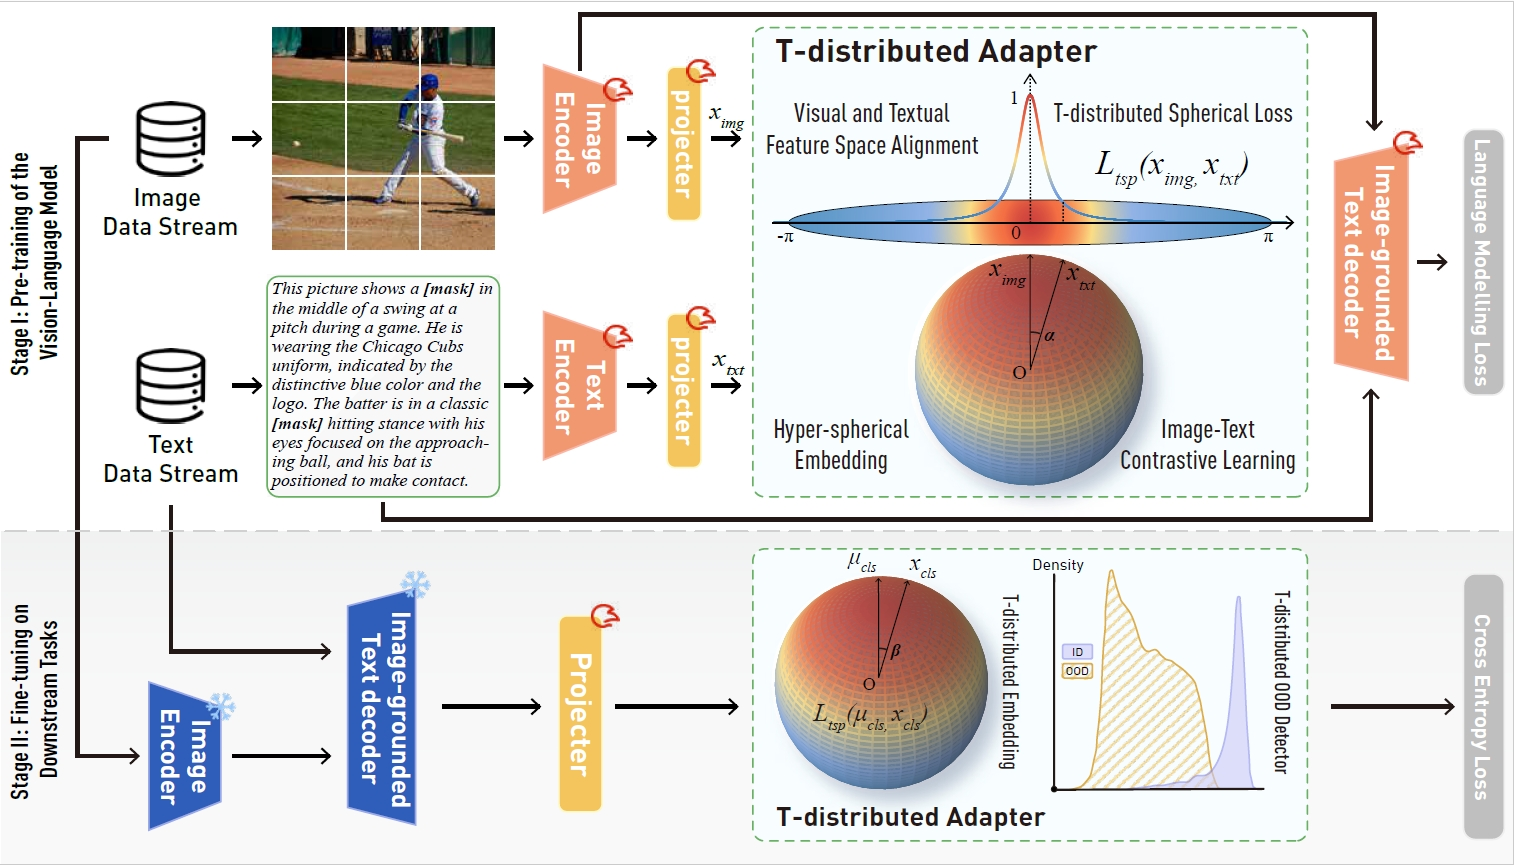
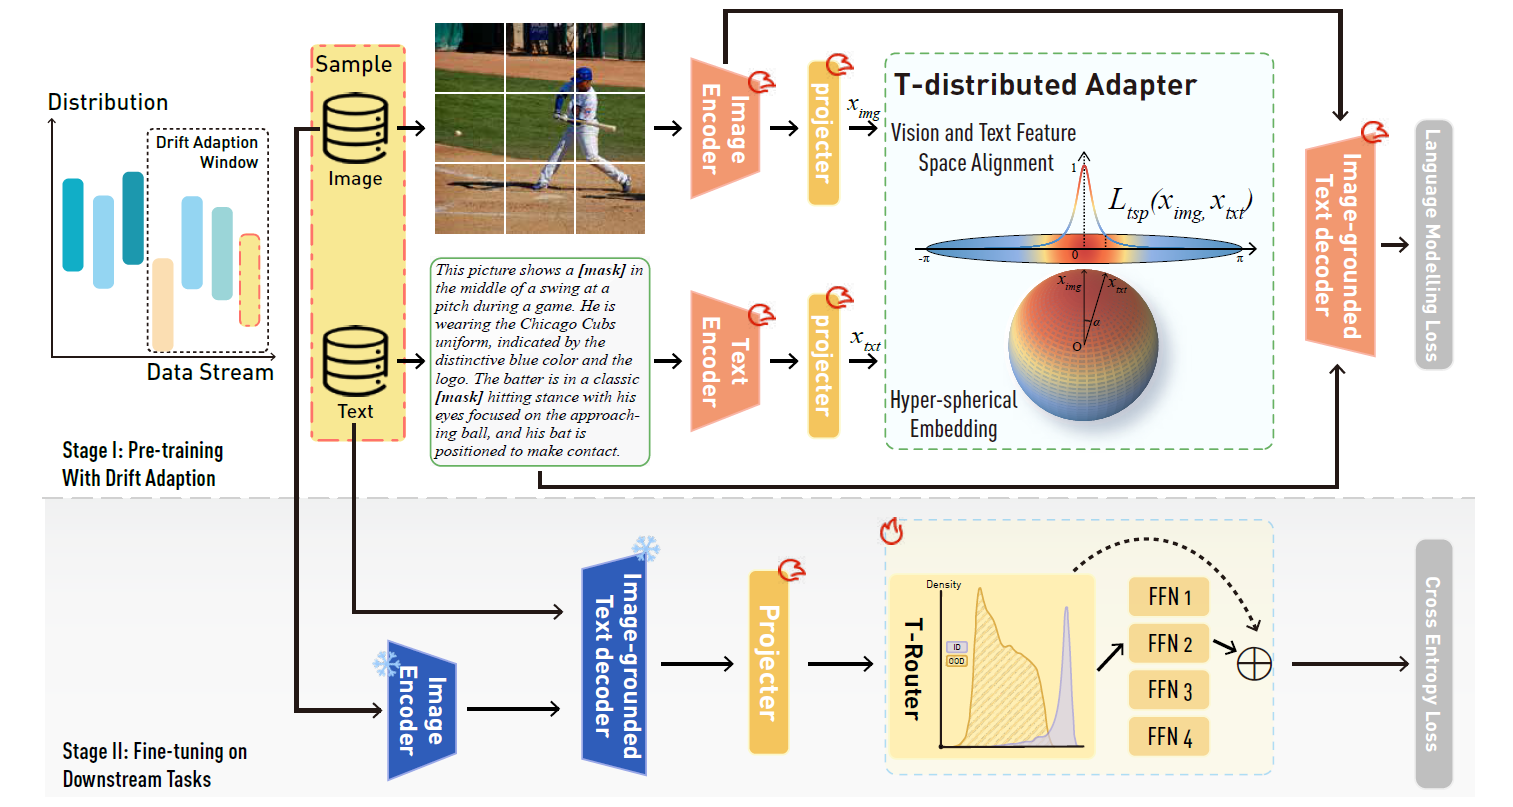
update

diff --git a/readme.md b/readme.md
@@ -5,8 +5,7 @@ This repository is a PyTorch implementation of concept drift aware vision langua
 ![model](figures/framework.png)
 
 
-Real-world data often exhibit extreme imbalances and out-of-distribution (OOD) instances, which significantly biases the model training. While it has been extensively studied in vision and language domains separately, the impact of long-tailed open worlds on multi-modal large language models (MLLMs) has been largely overlooked. In this paper, we first demonstrate the susceptibility and vulnerability of vision-language models to significant biases caused by tailed drift and out-of-distribution (OOD) drift during both the pre-training and fine-tuning stages. To eliminate the bias from different sources, we integrate the tailed drift adaptation and OOD drift detection into a unified framework by extending the concept drift theory to multi-modal. Specifically, a T-distribution-based drift adapter is proposed to effectively mitigate the bias induced by the long-tailed problem,  which also facilitates the model in distinguishing OOD data through explicit distribution modelling.
-Extensive experiments show significant improvements in our model's ability to adapt to tailed drift and OOD drift. Moreover, it enhances the efficiency and accuracy of image-text alignment in vision language model pre-training, particularly in the long-tailed open world scenario. Furthermore, we create a set of multi-modal datasets called OpenMMlo, specifically tailored for the long-tailed open world scenario, to validate our findings. To foster the development of the multi-modal community, we have made both OpenMMlo datasets and our code publicly available at: https://github.com/Anonymous0Knight/ConceptDriftMLLMs.
+Multi-modal Large Language Models (MLLMs) frequently face challenges from concept drift when dealing with real-world streaming data, wherein distributions change unpredictably. This mainly includes gradual drift due to long-tailed data and sudden drift from Out-Of-Distribution (OOD) data, both of which have increasingly drawn the attention of the research community. While these issues have been extensively studied in the individual domain of vision or language, their impacts on MLLMs in concept drift settings remain largely underexplored. In this paper, we reveal the susceptibility and vulnerability of Vision-Language (VL) models to significant biases arising from gradual drift and sudden drift, particularly in the pre-training. To effectively address these challenges, we propose a unified framework that extends concept drift theory to the multi-modal domain, enhancing the adaptability of the VL model to the distribution unpredictable changes. Additionally, a T-distribution based drift adapter is proposed to effectively mitigate the bias induced by the gradual drift, which also facilitates the model in distinguishing sudden distribution changes through explicit distribution modeling. Extensive experiments demonstrate our method enhances the efficiency and accuracy of image-text alignment in the pre-training of VL models, particularly in the concept drift scenario. Moreover, various downstream tasks exhibit significant improvements in our model's ability to adapt to the long-tailed open world. Furthermore, we create a set of multi-modal datasets called OpenMMlo, specifically tailored for the long-tailed open world settings, to validate our findings. To foster the development of the multi-modal community, we have made both OpenMMlo datasets and our code publicly available at: https://github.com/Anonymous0Knight/ConceptDriftMLLMs.
 
 
 The code in this repo is copied/modified from [BLIP](https://github.com/salesforce/LAVIS).
